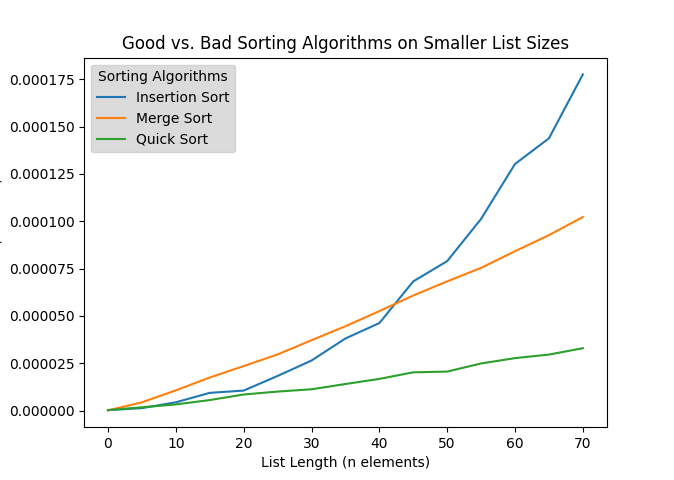
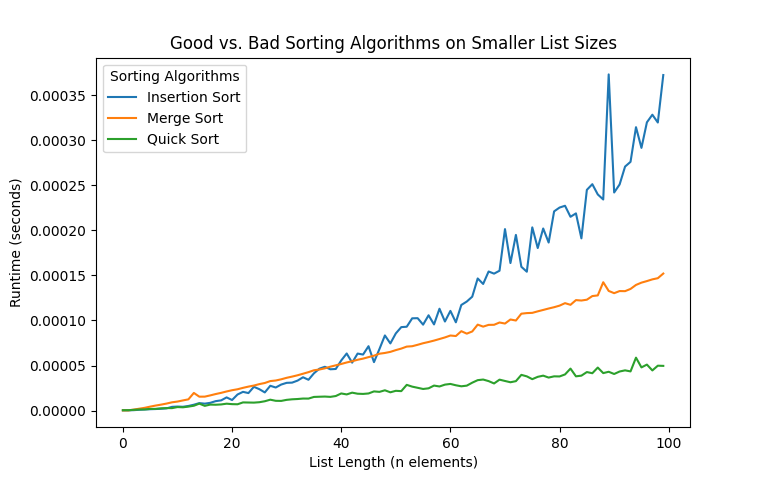
Cleanup

diff --git a/Lab 1/Experiment 8/Experiment 8.py b/Lab 1/Experiment 8/Experiment 8.py
@@ -9,6 +9,7 @@ from good_sorts import quicksort, mergesort
 from bad_sorts import create_random_list, insertion_sort
 import timeit
 import matplotlib.pyplot as plot
+import numpy
 
 
 # conduct_AverageRuns conducts an average number of runs for the specific sorting algorithm and measures the corresponding runtime of the algorithm (aginest a target list)
@@ -30,7 +31,7 @@ def conduct_AverageRuns(averageRunCount, sortingAlgFunc, target_List):
 # test_allSorts tests the 3 sorting algorithms for a specific amount of test_runs and plots the corresponding runtime results from each algorithm using matplotlib
 # Paramaters: test_runs(number of actual test runs), average_runs (number of average runs - done during each actual test run) and increaseList_factor(factor used to increase the list size)
 def test_allSorts(test_runs, average_runs, increaseList_factor):
-    list_max = 100
+    list_max = 0
     list_len = 0
     # declare the default max and len of list: 0
 
@@ -62,7 +63,7 @@ def test_allSorts(test_runs, average_runs, increaseList_factor):
     plot.plot(list_lens, Insertion_times, label='Insertion Sort')
     plot.plot(list_lens, MergeSort_times, label='Merge Sort')
     plot.plot(list_lens, QuickSort_times, label='Quick Sort')
-    plot.legend(loc='upper left', title='Sorting Algorithms', fontsize=10, facecolor='lightgray')
+    plot.legend(loc='upper left', title='Sorting Algorithms', fontsize=10)
     plot.xlabel('List Length (n elements)')
     plot.ylabel('Runtime (seconds)')
     plot.title("Good vs. Bad Sorting Algorithms on Smaller List Sizes")
@@ -76,6 +77,6 @@ def test_allSorts(test_runs, average_runs, increaseList_factor):
 test_allSorts(13, 30, 1)
 
 
-# calls the function to commence the test and plot the curve with the following parameters: 15 test runs, 30 average runs (for each test run) with an increasing list factor of 5 (insertion vs quick in this case)
-test_allSorts(100, 30, 1)
+# calls the function to commence the test and plot the curve with the following parameters: 15 test runs, 30 average runs (for each test run) with an increasing list factor of 1 (merge vs insertion in this case)
+#test_allSorts(100, 30, 1)
 # TODO CONFIRM BETWEEN ORG AND ALT PICS FOR SECOND DEMO

diff --git a/Lab 1/Experiment 1/Experiment 1.py b/Lab 1/Experiment 1/Experiment 1.py
@@ -26,7 +26,7 @@ def conduct_AverageRuns(averageRunCount, sortingAlgFunc, target_List):
 # test_allSorts tests the 3 sorting algorithms for a specific amount of test_runs and plots the corresponding runtime results from each algorithm using matplotlib
 # Paramaters: test_runs(number of actual test runs), average_runs (number of average runs - done during each actual test run) and increaseList_factor(factor used to increase the list size)
 def test_allSorts(test_runs, average_runs, increaseList_factor):
-    list_max = 100
+    list_max = 0
     list_len = 0
     # declare the default max and len of list: 0
 
@@ -58,13 +58,13 @@ def test_allSorts(test_runs, average_runs, increaseList_factor):
     plot.plot(list_lens, Insertion_times, marker='o', label='Insertion Sort')
     plot.plot(list_lens, Selection_times, marker='o', label='Selection Sort')
     plot.plot(list_lens, Bubble_times, marker='o', label='Bubble Sort')
-    plot.legend(loc='upper left', title='Sorting Algorithms', fontsize=10, facecolor='lightgray')
+    plot.legend(loc='upper left', title='Sorting Algorithms', fontsize=10)
     plot.xlabel('List Length (n elements)')
     plot.ylabel('Runtime (seconds)')
     plot.title("Bad Sorting Algorithms' Runtime vs List Length")
     plot.show()
 
-    # returns the accumulated runtimes of all the sorting algs
+    # returns the accumulated runtimes of all the sorting alg s
     return Insertion_times, Bubble_times, Selection_times
 
 

diff --git a/Lab 1/Experiment 6/Experiment 6.py b/Lab 1/Experiment 6/Experiment 6.py
@@ -58,7 +58,7 @@ def dual_quicksort(L):
 # DualvsSingle_QuickSort tests dual quicksort vs. normal quicksort for a specific amount of test_runs and plots the corresponding runtime results from each algorithm using matplotlib
 # Paramaters: test_runs(number of actual test runs), average_runs (number of average runs - done during each actual test run) and increaseList_factor(factor used to increase the list size)
 def DualvsSingle_QuickSort(test_runs, average_runs, increaseList_factor):
-    list_max = 100
+    list_max = 0
     list_len = 0
     # declare the default max and len of list: 0
 
@@ -86,7 +86,7 @@ def DualvsSingle_QuickSort(test_runs, average_runs, increaseList_factor):
     # plots the runtimes of the 3 sorting algorithms with the following legends and axis titles
     plot.plot(list_lens, SingleQuick_times, label='Single Pivot QuickSort')
     plot.plot(list_lens, DualQuick_times, label='Dual Pivot Quicksort')
-    plot.legend(loc='upper left', title='Quicksort Algorithms', fontsize=10, facecolor='lightgray')
+    plot.legend(loc='upper left', title='Quicksort Algorithms', fontsize=10)
     plot.xlabel('List Length (n elements)')
     plot.ylabel('Runtime (seconds)')
     plot.title("Dual and Single Quicksort's Runtime vs. List Length")
